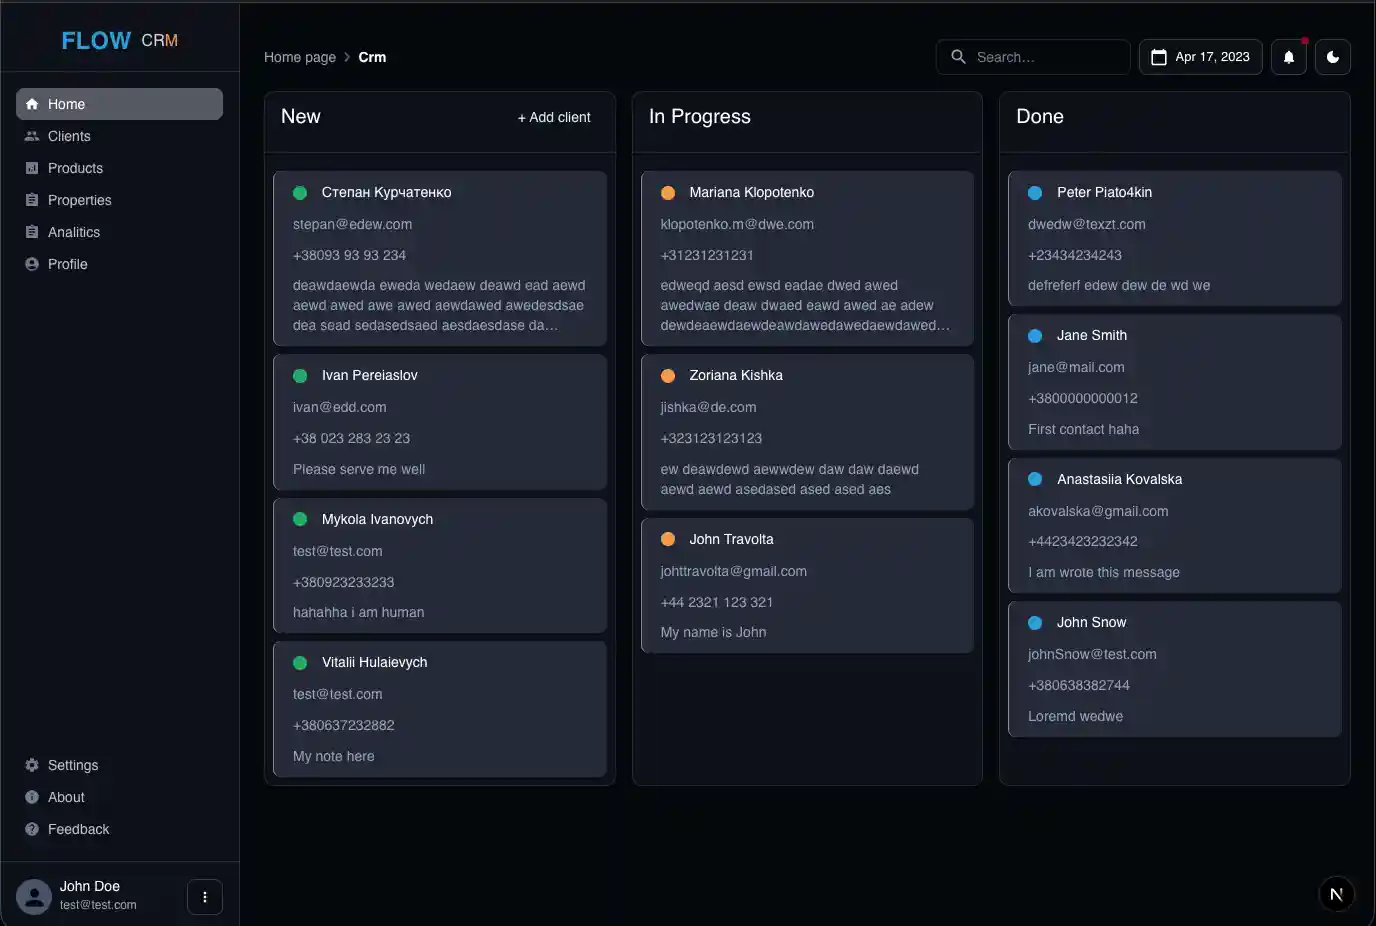
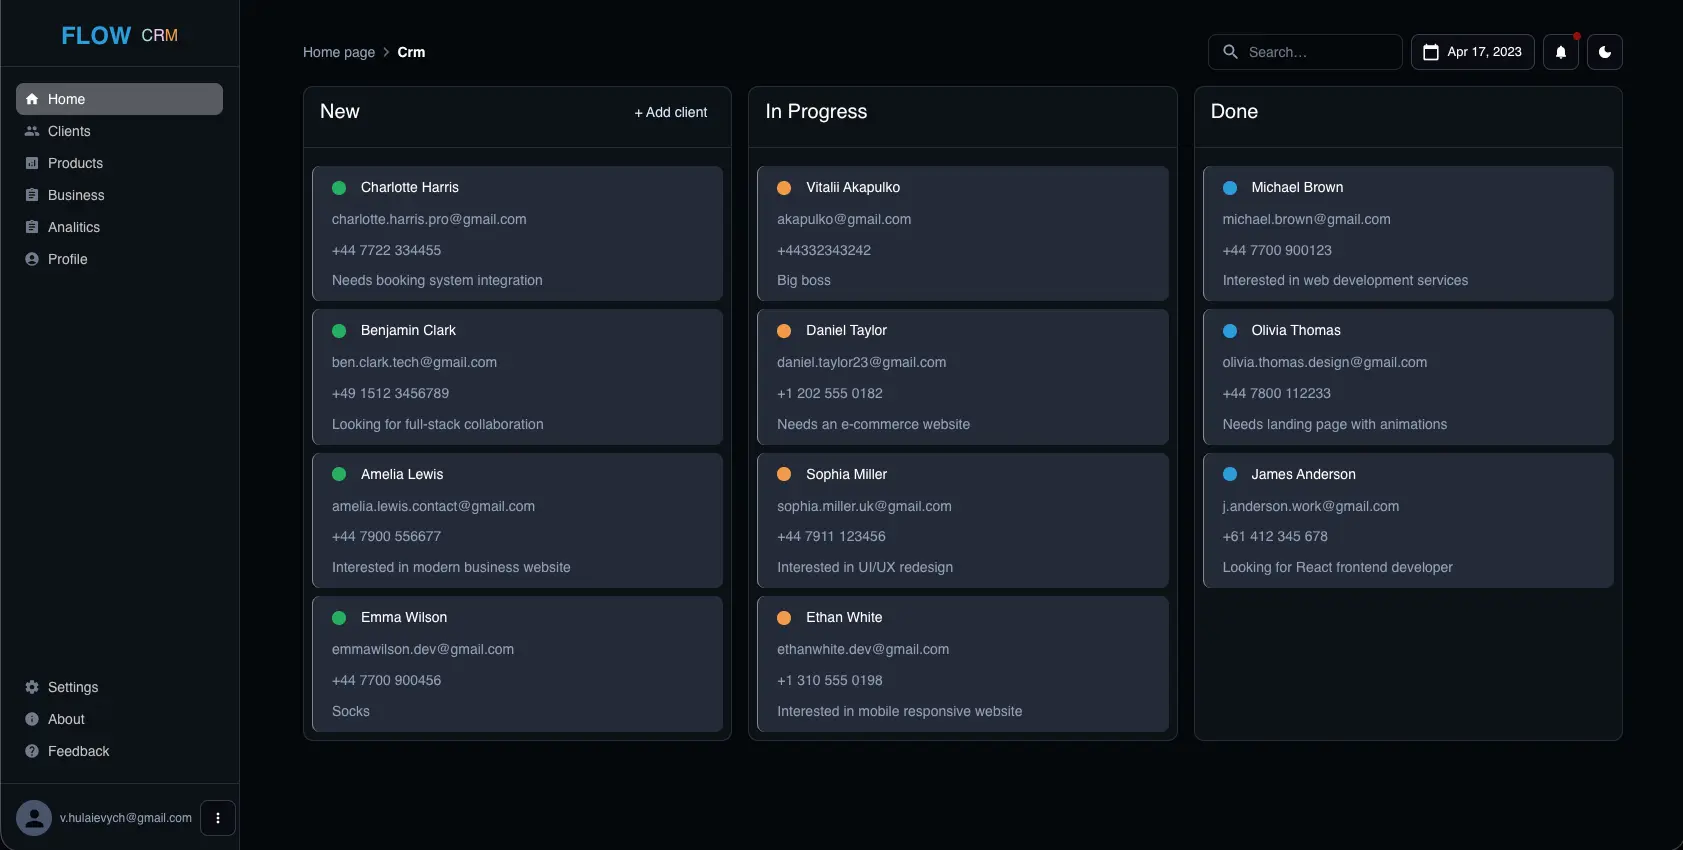
refactored

diff --git a/src/components/StartPage.tsx b/src/components/StartPage.tsx
@@ -17,8 +17,7 @@ import type { IconType } from "react-icons";
 import { useAuth } from "@/services/auth/hooks/useAuth";
 import { useAuthStore } from "@/store/user";
 
-const container =
-  "mx-auto box-border w-full xl:max-w-[1280px]";
+const container = "mx-auto box-border w-full xl:max-w-[1280px]";
 
 const fadeUp = {
   hidden: { opacity: 0, y: 20 },
@@ -175,11 +174,11 @@ const advantages: {
 function Logo({ className }: { className?: string }) {
   return (
     <div className={`flex items-center gap-2.5 ${className ?? ""}`}>
-      <span className="text-2xl font-extrabold text-[var(--info)]">FLOW</span>
+      <span className="text-2xl font-extrabold text-(--info)">FLOW</span>
       <span className="text-base font-normal">
-        <span className="text-[var(--primary)]">C</span>
-        <span className="text-[var(--secondary)]">R</span>
-        <span className="text-[var(--warning)]">M</span>
+        <span className="text-primary">C</span>
+        <span className="text-(--secondary)">R</span>
+        <span className="text-(--warning)">M</span>
       </span>
     </div>
   );
@@ -197,7 +196,11 @@ function LogoBlock({
 }) {
   if (asLink) {
     return (
-      <Link href="/" onClick={onClick} className={`${logoHoverLines} no-underline`}>
+      <Link
+        href="/"
+        onClick={onClick}
+        className={`${logoHoverLines} no-underline`}
+      >
         <Logo />
       </Link>
     );
@@ -218,14 +221,18 @@ export const StartPage = () => {
     "rounded bg-[var(--primary)] px-4 py-2 text-sm font-semibold text-[#05080a] transition hover:shadow-[0_0_10px_var(--primary)] active:scale-90";
 
   return (
-    <div className="relative z-[2] min-h-auto bg-[#05080a] bg-[length:40px_40px] bg-[image:linear-gradient(to_right,rgba(255,255,255,0.05)_1px,transparent_1px),linear-gradient(to_bottom,rgba(255,255,255,0.05)_1px,transparent_1px)] text-[var(--foreground)]">
+    <div className="relative z-20 min-h-auto bg-[#05080a] bg-size-[40px_40px] bg-[linear-gradient(to_right,rgba(255,255,255,0.05)_1px,transparent_1px),linear-gradient(to_bottom,rgba(255,255,255,0.05)_1px,transparent_1px)] text-foreground">
       <header className="border-y border-white/10 bg-[#05080a]">
         <div className={container}>
-          <div className="relative z-10 flex h-auto items-center justify-between px-[30px] py-2.5 xl:border-x xl:border-white/10">
+          <div className="relative z-10 flex h-auto items-center justify-between px-7.5 py-2.5 xl:border-x xl:border-white/10">
             <LogoBlock />
 
             {currentUser ? (
-              <button type="button" className={authButtonClass} onClick={() => logout()}>
+              <button
+                type="button"
+                className={authButtonClass}
+                onClick={() => logout()}
+              >
                 Log out
               </button>
             ) : (
@@ -255,7 +262,7 @@ export const StartPage = () => {
           }}
         >
           <motion.div
-            className="flex w-auto flex-col items-start gap-3.5 p-[18px] sm:gap-5 xl:p-16"
+            className="flex w-auto flex-col items-start gap-3.5 p-4.5 sm:gap-5 xl:p-16"
             variants={{
               hidden: { opacity: 0, y: 20 },
               show: {
@@ -266,7 +273,7 @@ export const StartPage = () => {
             }}
           >
             <motion.div
-              className="inline-flex items-center gap-1.5 rounded-[18px] border border-[var(--primary)] bg-[rgba(168,240,230,0.1)] px-2.5 py-1 text-xs font-bold text-[#a8f0e6]"
+              className="inline-flex items-center gap-1.5 rounded-[18px] border border-primary bg-[rgba(168,240,230,0.1)] px-2.5 py-1 text-xs font-bold text-[#a8f0e6]"
               variants={{
                 hidden: { opacity: 0, x: -10 },
                 show: { opacity: 1, x: 0, transition: { duration: 0.5 } },
@@ -284,7 +291,7 @@ export const StartPage = () => {
               }}
             >
               CRM with a{" "}
-              <span className="bg-gradient-to-r from-[var(--primary)] via-[var(--secondary)] to-[var(--warning)] bg-clip-text text-transparent">
+              <span className="bg-linear-to-r from-primary via-(--secondary) to-(--warning) bg-clip-text text-transparent">
                 simple interface
               </span>{" "}
               for B2C businesses
@@ -296,7 +303,7 @@ export const StartPage = () => {
 
             <motion.button
               type="button"
-              className="inline-flex items-center justify-center gap-1.5 rounded bg-[var(--primary)] px-4 py-2 font-semibold text-[#05080a] transition hover:shadow-[0_0_10px_var(--primary)] active:scale-90"
+              className="inline-flex items-center justify-center gap-1.5 rounded bg-primary px-4 py-2 font-semibold text-[#05080a] transition hover:shadow-[0_0_10px_var(--primary)] active:scale-90"
               onClick={() => (window.location.href = "/crm")}
               variants={fadeUp}
             >
@@ -306,24 +313,26 @@ export const StartPage = () => {
 
             <motion.div className="flex items-center gap-8" variants={fadeUp}>
               <div className="flex items-center gap-1.5">
-                <IoIosCheckmarkCircleOutline className="size-3 text-[var(--textSecondary)]" />
+                <IoIosCheckmarkCircleOutline className="size-3 text-(--textSecondary)" />
                 <p className="m-0 text-[10px] leading-none">VERSION-1.0</p>
               </div>
               <div className="flex items-center gap-1.5">
-                <GoLock className="size-3 text-[var(--textSecondary)]" />
-                <p className="m-0 text-[10px] leading-none">ALL DATA PROTECTED</p>
+                <GoLock className="size-3 text-(--textSecondary)" />
+                <p className="m-0 text-[10px] leading-none">
+                  ALL DATA PROTECTED
+                </p>
               </div>
             </motion.div>
           </motion.div>
         </motion.div>
 
-        <div className="flex flex-1 items-center justify-center border-t border-dashed border-white/10 [perspective:1000px] sm:border-t-0 sm:border-l">
+        <div className="flex flex-1 items-center justify-center border-t border-dashed border-white/10 perspective-[1000px] sm:border-t-0 sm:border-l">
           <div className="p-8 xl:p-16">
-            <div className="inline-block rounded-3xl bg-gradient-to-br from-[var(--primary)] via-[var(--secondary)] to-[var(--warning)] p-1 shadow-[0_20px_40px_rgba(242,200,237,0.5),0_0_30px_rgba(242,200,237,0.3)]">
+            <div className="inline-block rounded-3xl bg-linear-to-br from-primary via-(--secondary) to-(--warning) p-1 shadow-[0_20px_40px_rgba(242,200,237,0.5),0_0_30px_rgba(242,200,237,0.3)]">
               <motion.img
                 src="/kanban.webp"
                 alt="CRM Preview"
-                className="block h-auto w-full max-w-[500px] rounded-[20px]"
+                className="block h-auto w-full max-w-125 rounded-[20px]"
                 initial={{ opacity: 0, scale: 0.9 }}
                 animate={{ opacity: 1, scale: 1 }}
                 transition={{ duration: 1, ease: "easeOut" }}
@@ -339,18 +348,16 @@ export const StartPage = () => {
         animate="show"
         variants={stagger}
       >
-        <div
-          className={`${container} grid w-full grid-cols-1 sm:grid-cols-3`}
-        >
+        <div className={`${container} grid w-full grid-cols-1 sm:grid-cols-3`}>
           {features.map((feature) => (
             <motion.div
               key={feature.title}
               className="flex flex-col items-start gap-3 border-t border-dashed border-white/10 p-8 transition-colors hover:bg-[#080b0f] sm:border-t-0 sm:border-r sm:last:border-r-0 xl:first:border-l xl:last:border-r"
               variants={fadeUp}
             >
-              <feature.icon className="size-5 text-[var(--primary)]" />
+              <feature.icon className="size-5 text-primary" />
               <h3 className="text-lg font-semibold">{feature.title}</h3>
-              <p className="text-start text-sm text-[var(--textSecondary)]">
+              <p className="text-start text-sm text-(--textSecondary)">
                 {feature.description}
               </p>
             </motion.div>
@@ -377,10 +384,7 @@ export const StartPage = () => {
                 show: { transition: { staggerChildren: 0.15 } },
               }}
             >
-              <motion.p
-                className="text-xs text-[var(--primary)]"
-                variants={fadeUp}
-              >
+              <motion.p className="text-xs text-primary" variants={fadeUp}>
                 THE HIDDEN FRICTION
               </motion.p>
 
@@ -401,8 +405,8 @@ export const StartPage = () => {
 
               <motion.p className="text-sm" variants={fadeUp}>
                 Most managers believe delays happen instantly because <br />
-                of one confusing interface or a single missing task. The
-                reality is uncomfortable:
+                of one confusing interface or a single missing task. The reality
+                is uncomfortable:
                 <br />
                 small inefficiencies are scattered and accumulate subtly.
               </motion.p>
@@ -415,7 +419,7 @@ export const StartPage = () => {
               </motion.p>
 
               <motion.h5
-                className="border-l-2 border-[var(--primary)] pl-2.5 text-sm font-normal"
+                className="border-l-2 border-primary pl-2.5 text-sm font-normal"
                 variants={fadeUp}
               >
                 FlowCRM bridges this gap. We give you clarity and control over
@@ -447,7 +451,7 @@ export const StartPage = () => {
               return (
                 <motion.div
                   key={item.title}
-                  className={`flex aspect-[5/4] flex-col items-start justify-start gap-4 rounded-2xl border-l-2 bg-[#05080a] p-6 text-left transition-all duration-300 sm:aspect-[4/3] xl:aspect-square ${styles.card} ${
+                  className={`flex aspect-5/4 flex-col items-start justify-start gap-4 rounded-2xl border-l-2 bg-[#05080a] p-6 text-left transition-all duration-300 sm:aspect-[4/3] xl:aspect-square ${styles.card} ${
                     item.noHover
                       ? ""
                       : "hover:-translate-y-1 hover:shadow-[0_0_25px_rgba(255,255,255,0.3)]"
@@ -467,7 +471,7 @@ export const StartPage = () => {
                     <item.icon className={`text-2xl ${styles.icon}`} />
                   </div>
                   <h3 className="text-lg font-semibold">{item.title}</h3>
-                  <p className="text-sm text-[var(--textSecondary)]">
+                  <p className="text-sm text-(--textSecondary)">
                     {item.description}
                   </p>
                 </motion.div>
@@ -490,7 +494,7 @@ export const StartPage = () => {
                 href="https://github.com/Vitalii120296"
                 target="_blank"
                 rel="noopener noreferrer"
-                className="inline-block text-[var(--textSecondary)] transition hover:scale-110 hover:text-[var(--text)]"
+                className="inline-block text-(--textSecondary) transition hover:scale-110 hover:text-(--text)"
               >
                 <FaGithub size={22} />
               </a>

diff --git a/src/proxy.ts b/src/proxy.ts
@@ -55,5 +55,5 @@ export async function proxy(request: NextRequest) {
 }
 
 export const config = {
-  matcher: ["/((?!_next/static|_next/image|favicon.ico|api).*)"],
+  matcher: ["/((?!_next/static|_next/image|favicon.ico|api|.*\\..*).*)"],
 };
